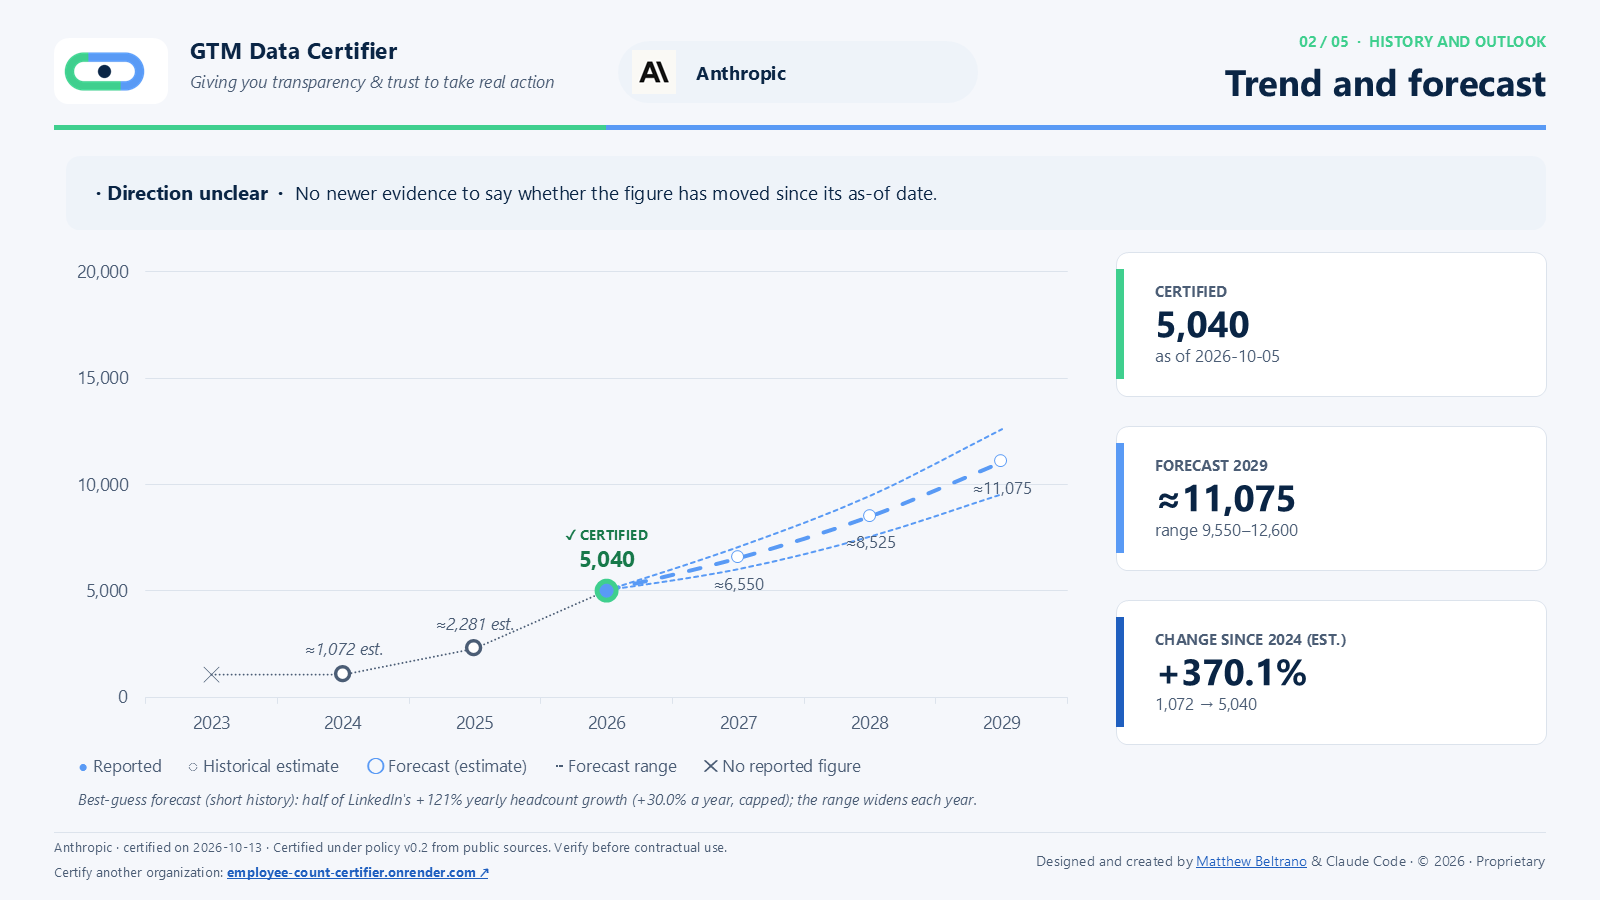
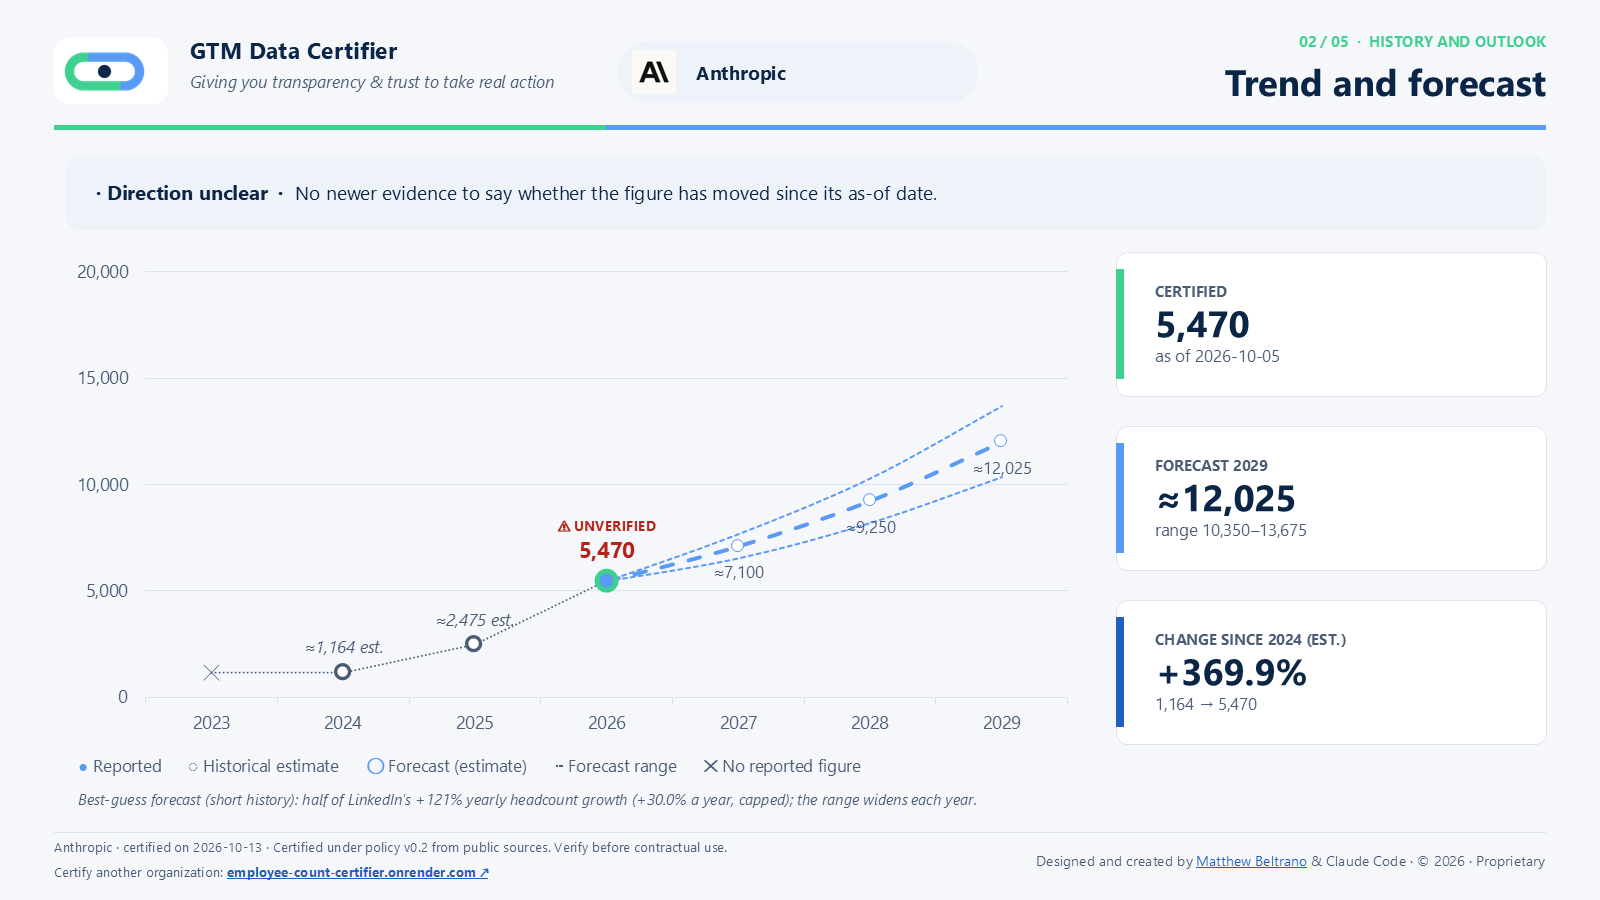
Lean forward on very strong growth (tighter range), level-aware certified caption, aligned trust cards with signed impact chips and meters

diff --git a/src/certifier/card.py b/src/certifier/card.py
@@ -139,35 +139,43 @@ CARD_CSS = r"""
 .cert .answer-actions .breakdown > summary { padding: 4px 0; color: var(--accent); font-size: 14px; }
 .cert .answer-actions .breakdown[open] { flex-basis: 100%; }
 .cert .trust-strip { display: grid; grid-template-columns: repeat(5, minmax(0, 1fr)); gap: 8px; }
-.cert .trust-strip.journey { grid-template-columns: repeat(5, minmax(0, 1fr)) minmax(0, .9fr); gap: 14px; }
-.cert .journey .trust-item { position: relative; display: grid; align-content: start; gap: 3px; padding: 9px 10px 10px; border-width: 1px;
-  border-top-width: 4px; cursor: pointer; }
-.cert .journey .trust-item:not(:first-child)::before { content: "\203A"; position: absolute; left: -12px; top: 50%; transform: translateY(-50%);
-  color: var(--muted); font-size: 16px; font-weight: 700; }
+.cert .trust-strip.journey { grid-template-columns: repeat(5, minmax(0, 1fr)) minmax(0, .9fr); gap: 18px; }
+.cert .journey .trust-item { position: relative; display: grid; grid-template-rows: auto auto 1fr auto; gap: 6px; padding: 10px 10px 10px;
+  border-width: 1px; border-top-width: 4px; cursor: pointer; text-align: left; }
+.cert .journey .trust-item:not(:first-child)::before, .cert .trust-land::before { content: "\203A"; position: absolute; left: -20px; top: 50%;
+  transform: translateY(-50%); display: grid; place-items: center; width: 22px; height: 22px; border-radius: 50%; background: var(--card);
+  border: 1px solid var(--line); color: var(--accent); font-size: 16px; font-weight: 800; line-height: 1; z-index: 1;
+  box-shadow: 0 1px 3px rgba(10, 37, 69, .12); }
+.cert .trust-land::before { content: "="; }
+.cert .journey .t-top { min-height: 34px; align-items: flex-start; }
+.cert .journey .t-label { font-size: 12px; font-weight: 700; color: var(--muted); line-height: 1.3; padding-top: 1px; }
+.cert .journey .t-value { min-height: 2.6em; font-size: 14px; line-height: 1.3; }
+.cert .journey .t-impact { display: flex; flex-wrap: wrap; gap: 4px 6px; align-items: baseline; align-self: start; }
+.cert .journey .t-chip { font-size: 12.5px; font-weight: 800; padding: 1px 7px; border-radius: 999px; background: var(--card);
+  border: 1px solid currentColor; white-space: nowrap; }
 .cert .journey .t-top { display: flex; gap: 6px; align-items: center; }
 .cert .journey .t-sym { display: inline-grid; place-items: center; width: 18px; height: 18px; border-radius: 50%; font-size: 11px; font-weight: 800;
   color: #fff; flex: none; }
 .cert .journey strong { font-size: 14px; line-height: 1.3; overflow-wrap: anywhere; }
 .cert .journey .t-effect { font-size: 12px; font-weight: 600; }
-.cert .t-run { position: relative; display: block; height: 6px; margin-top: 4px; border-radius: 999px; background: var(--line); }
+.cert .t-run { position: relative; display: block; height: 18px; border-radius: 999px; background: var(--line); overflow: hidden; align-self: end; }
 .cert .t-run i { position: absolute; left: 0; top: 0; bottom: 0; border-radius: 999px; background: linear-gradient(90deg, var(--loop-green), var(--loop-blue)); }
-.cert .t-run b { position: absolute; right: 0; top: 8px; font-size: 10.5px; color: var(--muted); }
-.cert .journey .trust-item { padding-bottom: 20px; }
+.cert .t-run b { position: absolute; right: 7px; top: 50%; transform: translateY(-50%); font-size: 11px; font-weight: 800; color: var(--text); }
 .cert .journey .strong { border-top-color: var(--loop-green); background: var(--green-bg); }
 .cert .journey .strong .t-sym { background: var(--green); }
-.cert .journey .strong .t-effect { color: var(--green); }
+.cert .journey .strong .t-effect, .cert .journey .strong .t-chip { color: var(--green); }
 .cert .journey .neutral { border-top-color: var(--loop-blue); }
 .cert .journey .neutral .t-sym { background: var(--loop-blue); }
-.cert .journey .neutral .t-effect { color: var(--muted); }
+.cert .journey .neutral .t-effect, .cert .journey .neutral .t-chip { color: var(--muted); }
 .cert .journey .weak { border-top-color: #F2C35B; background: var(--yellow-bg); }
 .cert .journey .weak .t-sym { background: #D99A1E; }
-.cert .journey .weak .t-effect { color: var(--yellow); }
+.cert .journey .weak .t-effect, .cert .journey .weak .t-chip { color: var(--yellow); }
 .cert .journey .harmful { border-top-color: var(--red); background: var(--red-bg); }
 .cert .journey .harmful .t-sym { background: var(--red); }
-.cert .journey .harmful .t-effect { color: var(--red); }
+.cert .journey .harmful .t-effect, .cert .journey .harmful .t-chip { color: var(--red); }
 .cert .trust-land { display: grid; align-content: center; justify-items: center; gap: 2px; text-align: center; border-radius: 14px; padding: 10px;
   border: 2px solid var(--line); position: relative; }
-.cert .trust-land::before { content: "="; position: absolute; left: -12px; top: 50%; transform: translateY(-50%); color: var(--muted); font-weight: 800; }
+
 .cert .trust-land strong { font-size: 26px; line-height: 1.1; }
 .cert .trust-land .t-label { font-size: 11px; font-weight: 800; letter-spacing: .06em; text-transform: uppercase; color: var(--muted); }
 .cert .trust-land .t-effect { font-size: 12px; font-weight: 600; }
@@ -355,6 +363,8 @@ CARD_CSS = r"""
 .cert .legend .lg.hist { border: 2px dashed var(--muted); background: var(--card); }
 .cert .chart .pt-faint { opacity: .55; font-weight: 600; font-size: 11.5px; }
 .cert .chart .pt-cert { font-size: 10.5px; font-weight: 800; letter-spacing: .08em; fill: var(--green); }
+.cert .chart .pt-cert.lv-mid, .cert .chart .pt-cert.lv-warn { fill: var(--yellow); }
+.cert .chart .pt-cert.lv-bad { fill: var(--red); }
 .cert .chart .gap-label { font-size: 11px; fill: var(--muted); font-style: italic; }
 .cert .chart .ov-label { font-size: 11.5px; font-weight: 700; }
 .cert .legend .lg.gap { width: auto; height: auto; border: 0; background: none; color: var(--muted); font-style: normal; font-weight: 700; font-size: 11px; }
@@ -851,12 +861,14 @@ CARD_JS = r"""
     var clamp = function (v) { return Math.max(0, Math.min(5, v)); };
     var s1 = clamp(st.base), s2 = clamp(s1 + st.recency), s3 = clamp(s2 + st.corr), s5 = c.score;
     var TONE_SYM = { strong: "✓", neutral: "◆", weak: "!", harmful: "✕" };
-    function card(label, value, effect, tone, running, target) {
+    function signed(n) { return n > 0 ? "+" + n : n < 0 ? "\u2212" + (-n) : "\u00b10"; }
+    function card(label, value, impact, effect, tone, running, target) {
       var b = el("button", { type: "button", cls: "trust-item " + tone, title: "Open the detail" }, [
         el("span", { cls: "t-top" }, [el("span", { cls: "t-sym", "aria-hidden": "true", text: TONE_SYM[tone] }), el("span", { cls: "t-label", text: label })]),
-        el("strong", { text: value }),
-        el("span", { cls: "t-effect", text: effect }),
-        el("span", { cls: "t-run", "aria-label": "Score so far " + running + " of 5" }, [el("i", { style: "width:" + running * 20 + "%" }), el("b", { text: running + "/5" })])]);
+        el("strong", { cls: "t-value", text: value }),
+        el("span", { cls: "t-impact" }, [el("b", { cls: "t-chip", text: impact }), el("span", { cls: "t-effect", text: effect })]),
+        el("span", { cls: "t-run", role: "img", "aria-label": "Score so far " + running + " of 5" }, [el("i", { style: "width:" + Math.max(running, 0.4) * 20 + "%" }),
+          el("b", { text: running + "/5" })])]);
       b.addEventListener("click", function () { jump(target); });
       return b;
     }
@@ -869,15 +881,15 @@ CARD_JS = r"""
       el("div", { cls: "block-title" }, [icon("trust"), el("h2", { text: "Why you can trust this" }),
         el("span", { cls: "muted small", text: "· read left to right: where the score started, what moved it, where it landed" })]),
       el("div", { cls: "trust-strip journey" }, [
-        card("Key source", keyValue, "starts at " + st.base + "/5", baseTone, s1, k + "-key"),
-        card("As of", asOf, st.recency < 0 ? "−" + (-st.recency) + " · older than the window" : h.as_of_date ? "current · no change" : "undated · no change",
+        card("Key source", keyValue, "start " + st.base, "the starting score", baseTone, s1, k + "-key"),
+        card("As of", asOf, signed(st.recency), st.recency < 0 ? "older than the window" : h.as_of_date ? "current" : "undated",
           st.recency < 0 ? "weak" : h.as_of_date && !h.as_of_estimated ? "strong" : "neutral", s2, k + "-key"),
-        card("Independent confirmations", String(corr.length), st.corr > 0 ? "+" + st.corr + " · confirmed" : "no change · single-sourced",
-          st.corr > 0 ? "strong" : "neutral", s3, corrFinding ? k + "-" + corrFinding.id : k + "-sources"),
-        card("Adjustments to the count", String(adj), adj ? "the figure moved · no score change" : "none needed",
+        card("Confirmations", corr.length + " independent source" + (corr.length === 1 ? "" : "s"), signed(st.corr),
+          st.corr > 0 ? "confirmed" : "single-sourced", st.corr > 0 ? "strong" : "neutral", s3, corrFinding ? k + "-" + corrFinding.id : k + "-sources"),
+        card("Adjustments", adj + " to the count", "±0", adj ? "figure moved, score didn't" : "none needed",
           adj ? "neutral" : "strong", s3, k + "-adjustments"),
-        card("Needs attention", String(attention), st.flags < 0 ? "−" + (-st.flags) + " · see findings"
-          : attention ? "no further effect · already at the minimum" : "nothing red",
+        card("Needs attention", attention + " red flag" + (attention === 1 ? "" : "s"), signed(st.flags),
+          st.flags < 0 ? "see the findings" : attention ? "already at the minimum" : "nothing red",
           st.flags < 0 ? "harmful" : attention ? "weak" : "strong", s5, k + "-findings"),
         landed])]);
   }
@@ -912,6 +924,11 @@ CARD_JS = r"""
   function roundForecast(v) {
     var step = v < 2000 ? 10 : v < 20000 ? 25 : v < 500000 ? 100 : 1000;
     return Math.round(v / step) * step;
+  }
+  // The certified point's caption says what the confidence level is: ✓ Certified, ◆ Supported, ! Estimated, ⚠ Unverified.
+  function levelTag(score) {
+    return score >= 4 ? { sym: "✓", word: "CERTIFIED", cls: "lv-ok" } : score === 3 ? { sym: "◆", word: "SUPPORTED", cls: "lv-mid" }
+      : score === 2 ? { sym: "!", word: "ESTIMATED", cls: "lv-warn" } : { sym: "⚠", word: score === 1 ? "UNVERIFIED" : "NOT CERTIFIED", cls: "lv-bad" };
   }
   function yearDate(year, md) { return year + (md === "-02-29" ? "-02-28" : md); }
   function chart(r, overlay) {
@@ -1078,9 +1095,10 @@ CARD_JS = r"""
         add("text", { x: cx, y: cy - 12, "text-anchor": i === 0 ? "start" : "middle", "class": "pt-label pt-faint hist-label" }, "≈" + num(p.value) + " est.");
         return;
       }
-      if (isLast) {  // the certified figure: a soft halo and a guide down to its as-of date
-        add("line", { x1: cx, x2: cx, y1: cy + 12, y2: H - B, stroke: "var(--loop-green)", "stroke-width": 1.5, "stroke-dasharray": "2 4", "class": "cert-guide" });
-        add("circle", { cx: cx, cy: cy, r: 11, fill: "var(--loop-green)", "fill-opacity": .22 });
+      if (isLast) {  // the certified figure: a soft halo and a guide down to its as-of date, in the level's colour
+        var lvc = { "lv-ok": "var(--loop-green)", "lv-mid": "#F2C35B", "lv-warn": "#F2C35B", "lv-bad": "var(--red)" }[levelTag(r.confidence.score).cls];
+        add("line", { x1: cx, x2: cx, y1: cy + 12, y2: H - B, stroke: lvc, "stroke-width": 1.5, "stroke-dasharray": "2 4", "class": "cert-guide" });
+        add("circle", { cx: cx, cy: cy, r: 11, fill: lvc, "fill-opacity": .22 });
       }
       add("circle", { cx: cx, cy: cy, r: isLast ? 6.5 : (p.estimated ? 4 : 5), fill: p.estimated ? "var(--card)" : "var(--meter)", stroke: isLast ? "var(--loop-green)" : "var(--meter)", "stroke-width": isLast ? 3 : 2.5 });
       // Values only on the chart; the certified point and the forecast range are named in the legend. The
@@ -1100,7 +1118,9 @@ CARD_JS = r"""
         "text-anchor": first && items.length > 1 ? "start" : (i === items.length - 1 && !gaps.some(function (g) { return g.kind === "forecast"; }) ? "end" : "middle"),
         "class": "pt-label" + (isLast ? " pt-key" : "") + (p.estimated ? " pt-est" + (p === finalForecast ? "" : " pt-faint") : "") },
         p.estimated ? "≈" + num(roundForecast(p.value)) : num(p.value));
-      if (isLast) add("text", { x: cx, y: cy - 34 < T - 8 ? cy + 28 : cy - 34, "text-anchor": first && items.length > 1 ? "start" : "middle", "class": "pt-cert" }, "✓ CERTIFIED");
+      if (isLast) { var lv = levelTag(r.confidence.score);
+        add("text", { x: cx, y: cy - 34 < T - 8 ? cy + 28 : cy - 34, "text-anchor": first && items.length > 1 ? "start" : "middle", "class": "pt-cert " + lv.cls },
+          lv.sym + " " + lv.word); }
     });
     return svgEl;
   }

diff --git a/src/certifier/office.py b/src/certifier/office.py
@@ -322,7 +322,7 @@ def deck(record: dict, theme: str = "light", logo: bytes | None = None, site_url
                        (_short(h.get("direction_reason") or "", None, 190), 11.5, False, "text", False, None)])], anchor=MSO_ANCHOR.MIDDLE)
         top += 0.8
     if reported:
-        _trend_chart(s, reported, forecast, t, 0.55, top, 8.5, 6.2 - top)
+        _trend_chart(s, reported, forecast, t, 0.55, top, 8.5, 6.2 - top, c["score"])
         legend = [("●", "blue", "Reported"), ("◌", "muted", "Historical estimate" if any(p.get("historical") for p in reported) else None),
                   ("◯", "blue", "Forecast (estimate)" if forecast else None),
                   ("┅", "muted", "Forecast range" if forecast else None), ("✕", "muted", "No reported figure")]
@@ -350,7 +350,9 @@ def deck(record: dict, theme: str = "light", logo: bytes | None = None, site_url
         years = int(last["as_of_date"][:4]) - int(first["as_of_date"][:4])
         change = (last["value"] - first["value"]) / first["value"] if first["value"] and years else None
         since_estimate = bool(first.get("historical"))
-        stats = [("CERTIFIED", _num(last["value"]), ("as of " + last["as_of_date"]) if h.get("as_of_date")
+        level_word = ("CERTIFIED" if c["score"] >= 4 else "SUPPORTED" if c["score"] == 3 else "ESTIMATED" if c["score"] == 2
+                      else "UNVERIFIED")
+        stats = [(level_word, _num(last["value"]), ("as of " + last["as_of_date"]) if h.get("as_of_date")
                   else "undated source · shown at " + last["as_of_date"], "brand_green"),
                  (f"FORECAST {f['as_of_date'][:4]}" if f else "FORECAST", "≈" + _num(round_forecast(f["value"])) if f else "No forecast",
                   f"range {_num(round_forecast(f['low']))}–{_num(round_forecast(f['high']))}" if f else "needs 3 reported years", "blue"),
@@ -604,7 +606,7 @@ def _nice_step(span: float) -> float:
     return next(m * mag for m in (1, 2, 2.5, 5, 10) if m * mag >= raw)
 
 
-def _trend_chart(s, reported: list[dict], forecast: list[dict], t: dict, x, y, w, hh) -> None:
+def _trend_chart(s, reported: list[dict], forecast: list[dict], t: dict, x, y, w, hh, score: int = 5) -> None:
     """A native, editable line chart over a fixed nine years (five reported, four forecast). Years without a
     reported figure (and a missing forecast) are ✕ markers on a dotted line, as on the card."""
     rgb = lambda key: RGBColor.from_string(t[key])  # noqa: E731
@@ -715,14 +717,16 @@ def _trend_chart(s, reported: list[dict], forecast: list[dict], t: dict, x, y, w
                 dl = series.points[i].data_label
                 dl.position = XL_LABEL_POSITION.ABOVE if reported_series else XL_LABEL_POSITION.BELOW
                 tf = dl.text_frame
-                if reported_series and yr == ly:  # the certified figure, named
-                    tf.text = "✓ CERTIFIED"
+                if reported_series and yr == ly:  # the certified figure, named with its confidence level
+                    word, tone = (("✓ CERTIFIED", "green") if score >= 4 else ("◆ SUPPORTED", "yellow") if score == 3
+                                  else ("! ESTIMATED", "yellow") if score == 2 else ("⚠ UNVERIFIED", "red"))
+                    tf.text = word
                     head = tf.paragraphs[0].runs[0]
-                    head.font.size, head.font.bold, head.font.color.rgb = Pt(8.5), True, rgb("green")
+                    head.font.size, head.font.bold, head.font.color.rgb = Pt(8.5), True, rgb(tone)
                     para = tf.add_paragraph()
                     run = para.add_run()
                     run.text = _num(rep[yr])
-                    run.font.size, run.font.bold, run.font.color.rgb = Pt(13), True, rgb("green")
+                    run.font.size, run.font.bold, run.font.color.rgb = Pt(13), True, rgb(tone)
                     continue
                 tf.text = _num(rep[yr]) if reported_series else "≈" + _num(round_forecast(fc[yr]["value"]))
                 run = tf.paragraphs[0].runs[0]

diff --git a/src/certifier/engine.py b/src/certifier/engine.py
@@ -150,18 +150,26 @@ def certify(entity: Entity, sources: list[Source], linkedin: LinkedInEvidence | 
     linkedin_floor_used = False
     weak_anchor = selected is None or selected.tier >= 4  # data providers, website, LinkedIn description, news
     if signal and value is not None and not current_primary and weak_anchor:
-        members = linkedin.member_count
-        floor = round(members * policy.linkedin.growth_floor_share)
-        if value < floor:
-            moved = rules.round_significant((floor + members) / 2, 3)
+        members, lp = linkedin.member_count, policy.linkedin
+        # Very strong, sustained growth leans further forward: a higher floor, an estimate near the member count,
+        # and a tighter range (LinkedIn lags hiring at this pace, so the total is less inflated than usual).
+        strong = (linkedin.growth_1y is not None and linkedin.growth_1y >= lp.growth_strong_1y)
+        share = lp.growth_strong_floor_share if strong else lp.growth_floor_share
+        floor = round(members * share)
+        target = (rules.round_significant(members * lp.growth_strong_point_share, 3) if strong
+                  else rules.round_significant((floor + members) / 2, 3))
+        if value < target if strong else value < floor:
+            high = round(members * lp.growth_strong_high_share) if strong else max(members, value_range[1] if value_range else members)
             adjustments.append(Adjustment(
-                source_url="(LinkedIn growth floor)", source_figure=value, change=moved - value, result=moved,
-                reason=f"{signal}, so at least {policy.linkedin.growth_floor_share:.0%} of its {members:,} LinkedIn "
-                       f"members are taken to be current employees (a floor of {floor:,}); moved to the middle of "
-                       f"{floor:,}-{members:,}."))
-            notes.append(f"LinkedIn growth floor: {value:,} moved to {moved:,} ({signal}).")
-            value, qualifier, count_type = moved, "approximately", "estimated"
-            value_range = (floor, max(members, value_range[1] if value_range else members))
+                source_url="(LinkedIn growth floor)", source_figure=value, change=target - value, result=target,
+                reason=f"{signal}, so at least {share:.0%} of its {members:,} LinkedIn members are taken to be current "
+                       f"employees (a floor of {floor:,}); " + (
+                           f"growth this strong is real hiring, so the estimate leans to {lp.growth_strong_point_share:.0%} "
+                           f"of members ({floor:,}-{high:,})." if strong else
+                           f"moved to the middle of {floor:,}-{members:,}.")))
+            notes.append(f"LinkedIn growth floor: {value:,} moved to {target:,} ({signal}).")
+            value, qualifier, count_type = target, "approximately", "estimated"
+            value_range = (floor, high)
             linkedin_floor_used = True
 
     # Events lower confidence only when they closed after the as-of date (the figure can't include them).

diff --git a/tests/test_growth.py b/tests/test_growth.py
@@ -131,10 +131,13 @@ def test_fast_growing_white_collar_linkedin_is_a_floor_for_weak_estimates(entity
     providers = [src(9, v, as_of=date(2026, 9, 1), url=f"https://provider{i}.com/x") for i, v in enumerate((2_300, 3_000, 3_500, 4_100))]
     li = LinkedInEvidence(member_count=5_756, workforce_profile="white_collar", growth_1y=1.21, growth_2y=3.70)
     cert = certify(entity, providers, linkedin=li, lookup_date=date(2026, 10, 13))
-    assert cert.certified_count == 5_040 and cert.range[0] == 4_317
-    assert any("LinkedIn growth floor" in a.reason or "75%" in a.reason for a in cert.adjustments)
+    assert (cert.certified_count, cert.range) == (5_470, (4_893, 6_044))  # very strong growth leans forward
+    moderate = certify(entity, providers, linkedin=li.model_copy(update={"growth_1y": 0.30, "growth_2y": 0.70}),
+                       lookup_date=date(2026, 10, 13))
+    assert moderate.certified_count == 5_040 and moderate.range[0] == 4_317
+    assert any("85% of its 5,756 LinkedIn members are taken" in a.reason for a in cert.adjustments)
     flat = certify(entity, providers, linkedin=li.model_copy(update={"growth_1y": 0.02, "growth_2y": 0.03}), lookup_date=date(2026, 10, 13))
-    assert flat.certified_count < 5_040  # no growth signal, no floor
+    assert flat.certified_count < 4_317  # no growth signal, no floor
 
 
 def test_the_floor_never_overrides_a_company_document_or_filing(entity):

diff --git a/src/certifier/record.py b/src/certifier/record.py
@@ -999,7 +999,7 @@ def our_take(r: "CertificationRecord") -> tuple[str | None, list[str]]:
     if floor and li.member_count:
         out.append(f"It doesn't publish a headcount and data providers say {lo_hi}, but LinkedIn shows "
                    f"{_n(li.member_count)} members" + (f" ({', '.join(hiring)})" if hiring else "") +
-                   ", so we count at least 75% of them as real employees.")
+                   f", so we count at least {_floor_share(floor.rationale)} of them as real employees.")
     elif not p.source_id and providers:
         out.append(f"It doesn't publish a headcount, so this blends {len(providers)} data provider figures ({lo_hi}), "
                    "which often draw on LinkedIn.")
@@ -1049,6 +1049,12 @@ def our_take(r: "CertificationRecord") -> tuple[str | None, list[str]]:
     if others:
         pointers.append(max(others, key=lambda s: (abs(s.value - h.count) / max(1, h.count), -s.tier)).id)
     return " ".join(out), pointers[:2]
+
+
+def _floor_share(rationale: str) -> str:
+    import re
+    m = re.search(r"at least (\d+%)", rationale)
+    return m.group(1) if m else "75%"
 
 
 def _short_quote(text: str, limit: int = 50) -> str:

diff --git a/src/certifier/hosted.py b/src/certifier/hosted.py
@@ -156,7 +156,7 @@ class Controls:
 
 # Bump when a change alters which figure is certified or how it's scored: cached results made by older
 # code are then ignored (they stay in the database but are never served) and the next search recertifies.
-ENGINE_VERSION = "2026.10.13b"
+ENGINE_VERSION = "2026.10.13c"
 
 
 def cache_key(entity: Entity, cik: int | None, parent_cik: int | None) -> str:

diff --git a/src/certifier/policy.py b/src/certifier/policy.py
@@ -85,6 +85,10 @@ class LinkedInPolicy(BaseModel):
     growth_signal_2y: float = 0.50
     growth_signal_open_roles: float = 0.05
     growth_forecast_cap: float = 0.30
+    growth_strong_1y: float = 0.60
+    growth_strong_floor_share: float = 0.85
+    growth_strong_point_share: float = 0.95
+    growth_strong_high_share: float = 1.05
 
 
 class GrowthAdjustment(BaseModel):

diff --git a/DECISIONS.md b/DECISIONS.md
@@ -906,3 +906,15 @@ The record's entity carries `address` and `address_source`, shown as **HQ addres
   when supplied, and research notes heavy hiring in its notes. The growth signal still works from LinkedIn growth.
 - An offline test now caps the schema at 43 fields (the size that compiles); raising it requires running the live
   schema test first.
+
+### D115. Lean forward on very strong growth; the chart names the level; calmer trust cards
+- **Very strong, sustained growth** (LinkedIn 1-year growth of 60% or more at a white-collar organization, with a weak
+  anchor): the floor rises to 85% of members, the estimate leans to 95% of members and the range tops out at 105%
+  (open roles are being filled and LinkedIn lags hiring at this pace). Anthropic-like case: about 5,470 (4,893-6,044)
+  instead of 5,040 (4,317-6,227). Moderate growth keeps the 75% floor and the midpoint.
+- **The certified point's caption says the level:** ✓ Certified (4-5), ◆ Supported (3), ! Estimated (2), ⚠ Unverified
+  (1), coloured to match, with the halo and guide line in the same colour. The deck's chart and its first stat card
+  use the same words.
+- **Trust cards:** every card has the same rows: icon and title, the fact ("1 independent source", "0 red flags"), a
+  signed impact chip (start 4, +1, −1, ±0) with a short note, and the meter at the bottom with the score written on it.
+  The arrows between cards are round badges.
